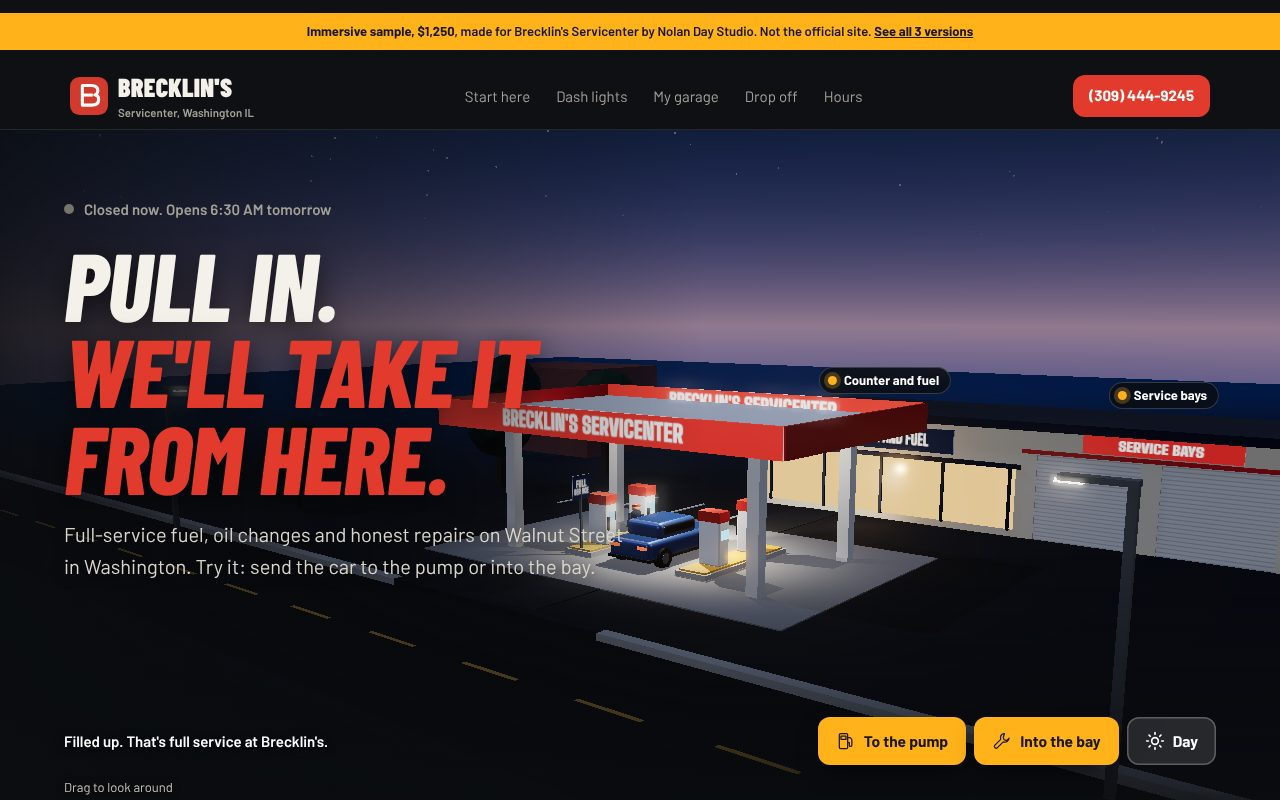
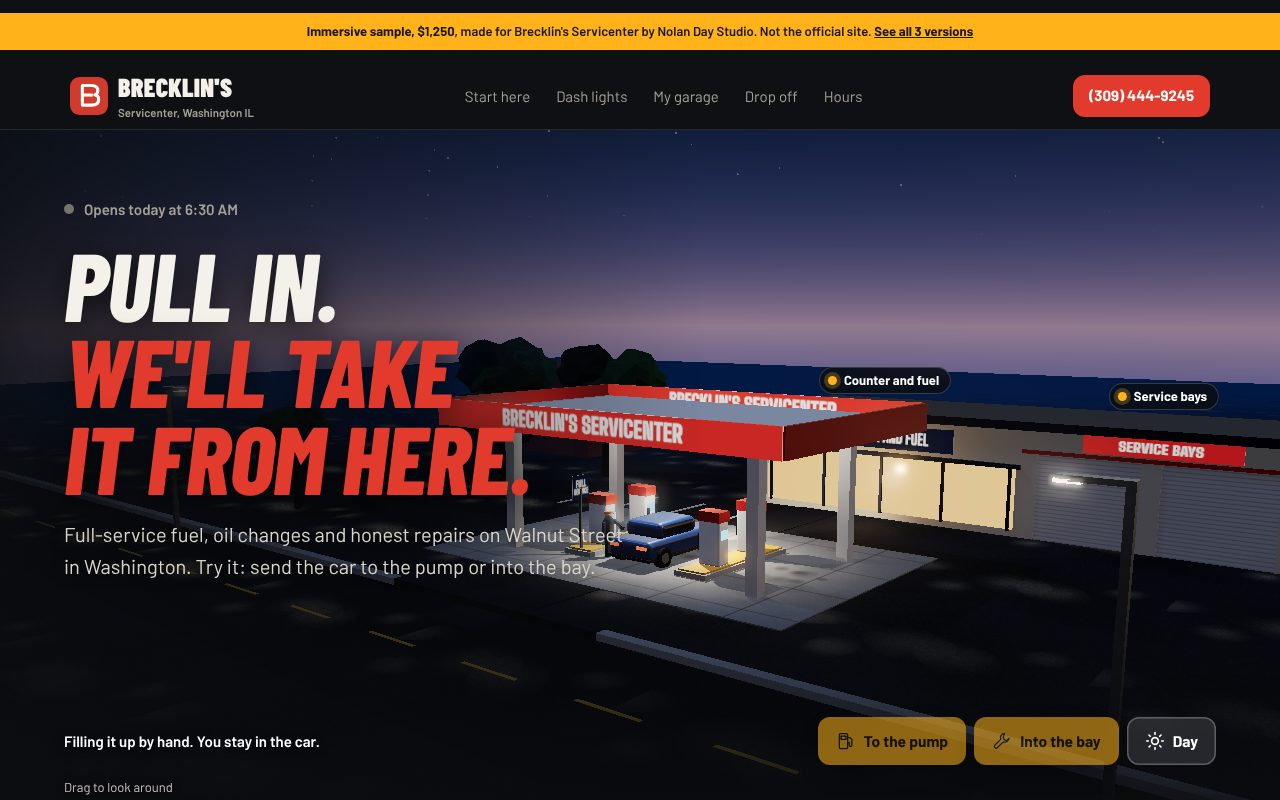
feat: Brecklin's round 4, real-world 3D light, textured lot, repair steps (#34)
* feat: three Brecklin's Servicenter sample sites and per-shop pitch room copy

- /brecklins300/: one page with a live open/closed repair tag from the
  Google hours, a work-order service list, real review quotes and a map
- /brecklins750/: gas-pump counter that rolls to today's hours and the
  4.8 rating, plus a drop-off planner that fills in a live ticket
- /brecklins1250/: real-time 3D station (Three.js) where the car drives
  to the full-service pump or into the bay and up on the lift, day/night
- The Brecklin's preview now is the $300 version, with samples, thumbs,
  why, tour, versions and compare in its nds-shop JSON
- meet: per-shop "versions", "compare" and "tour" overrides with neutral
  fallbacks; Just Dents' exact wording moved into its own JSON

Claude-Session: https://claude.ai/code/session_015BTMUSJY67YYBCQBZL3Y1N

* feat: Brecklin's samples round 2 upgrades

$300: save-to-contacts vCard, plan banner, JSON-LD, phone overflow fix.
$750: dash warning-light helper, photo upload, calendar invite after booking.
$1,250: same plus a 3D attendant who pumps the gas and tappable scene labels.
Pitch room data: per-plan feature lists and 15-row comparison, new thumbnails.

Claude-Session: https://claude.ai/code/session_015BTMUSJY67YYBCQBZL3Y1N

* feat: Brecklin's round 3, clearly different tiers and a cleaner pitch room

$300: drawn station hero whose sky follows the real time, live status and rating chips.
$750: long-exposure headlight streaks behind the hero.
[…]

diff --git a/brecklins300/index.html b/brecklins300/index.html
@@ -6,7 +6,7 @@
 <title>Brecklin's Servicenter · Washington, IL (free preview)</title>
 <meta name="description" content="Auto Repair in Washington, IL. Oil changes, repairs and full-service fuel at 119 Walnut St. Free website preview by Nolan Day Studio.">
 <meta name="theme-color" content="#14213A">
-<script type="application/json" id="nds-shop">{"slug": "brecklin-s-servicenter-washington", "name": "Brecklin's Servicenter", "short": "Brecklin's", "town": "Washington", "state": "IL", "phone": "(309) 444-9245", "trade": "Auto Repair", "address": "119 Walnut St, Washington, IL 61571", "rating": "4.8", "reviews": 21, "services": ["Oil changes", "Repairs and diagnosis", "Full-service fuel"], "samples": {"essential": "/brecklins300/", "signature": "/brecklins750/", "immersive": "/brecklins1250/"}, "why": "Today your Google listing shows a map pin, a phone number and an \"Add website\" button, so people searching on their phone have no page of yours to tap through to.", "thumbs": {"essential": "/p/2e8e4a/brecklin-s-servicenter-washington/shots/v300.jpg", "signature": "/p/2e8e4a/brecklin-s-servicenter-washington/shots/v750.jpg", "immersive": "/p/2e8e4a/brecklin-s-servicenter-washington/shots/v1250.jpg"}, "versions": {"essential": {"blurb": "The clean, fast version: one page that answers every question and gets the call. Or $0 down and $99 a month with hosting and changes included.", "features": ["One fast page, up to 5 sections", "A drawing of your station whose sky turns to night when you close", "Open or closed right now, from your real hours", "Tap-to-call bar on every phone screen", "Your Google reviews, a map to 119 Walnut St and a call-back form", "A button that saves your shop in the customer's contacts", "Set up for Google search, live the same day"]}, "signature": {"blurb": "Art-directed: headlights streak past on Walnut Street, a pump counter rolls to today's hours, and the site books drop-offs for you.", "features": ["Everything in Starter, up to 7 sections", "Custom look and type made for your shop", "Headlight streaks moving behind your headline", "Pump counter that rolls to today's hours and your 4.8 rating", "Dash-light helper: tap a warning light, see if it's safe to drive, book it", "Drop-off planner with photos, a live ticket and a calendar invite", "Two rounds of changes"]}, "immersive": {"blurb": "The showpiece and the one that brings customers back: a 3D model of your station, a guide that sends each visitor to the right next step, and oil-change reminders on their calendar.", "features": ["Everything in Signature, in its own after-dark look", "A real-time 3D model of your station: the attendant pumps the gas and the car rides the lift", "\"What brings you in?\" guide: fill-up, oil change, something's wrong or pick-up", "My Garage: customers save their car and get oil-change reminders on their calendar", "Shows you what a drop-off request looks like on your phone", "Built to be the site people remember and share"]}}, "compare": [["Built for phones first, tap-to-call on every screen", 1, 1, 1], ["Your Google reviews, a map and a call-back form", 1, 1, 1], ["Open-or-closed status from your real hours", 1, 1, 1], ["Save-to-contacts button", 1, 1, 1], ["Business details set up for Google search", 1, 1, 1], ["Live the same day you approve it", 1, 1, 1], ["Custom look and type made for your shop, not a template", 0, 1, 1], ["Motion made for your shop (headlight streaks, rolling pump counter)", 0, 1, 1], ["Dash-light helper that books the drop-off", 0, 1, 1], ["Drop-off planner with photos, a live ticket and a calendar invite", 0, 1, 1], ["A real-time 3D model of your station", 0, 0, 1], ["The attendant pumps the gas and the car rides the lift, in 3D", 0, 0, 1], ["\"What brings you in?\" guide to the right next step", 0, 0, 1], ["My Garage oil-change tracker with calendar reminders", 0, 0, 1], ["Rounds of changes included", "1 (any time on $99/mo)", "2", "2"], ["Sections", "up to 5", "up to 7", "up to 7"]], "tour": [["Tap-to-call on every screen", "Your number, (309) 444-9245, sits at the top and stays on screen as people scroll, so a driver stuck in a parking lot reaches you in one tap."], ["Open or closed, right now", "The drawing of your station reads your real hours: it says whether you're open this minute and when you close, and its sky turns to night after closing, so nobody drives over to a dark lot."], ["Your shop on a map", "It shows 119 Walnut St on a map with a directions button, so first-timers find you without calling to ask."], ["Requests while you work", "People who'd rather not call can leave their name, number and what the car is doing. Those go straight to you."]], "tools": {"essential": "Open-or-closed tag", "signature": "Pump counter that rolls to today's hours", "immersive": "a station you can drive into"}}</script>
+<script type="application/json" id="nds-shop">{"slug": "brecklin-s-servicenter-washington", "name": "Brecklin's Servicenter", "short": "Brecklin's", "town": "Washington", "state": "IL", "phone": "(309) 444-9245", "trade": "Auto Repair", "address": "119 Walnut St, Washington, IL 61571", "rating": "4.8", "reviews": 21, "services": ["Oil changes", "Repairs and diagnosis", "Full-service fuel"], "samples": {"essential": "/brecklins300/", "signature": "/brecklins750/", "immersive": "/brecklins1250/"}, "why": "Today your Google listing shows a map pin, a phone number and an \"Add website\" button, so people searching on their phone have no page of yours to tap through to.", "thumbs": {"essential": "/p/2e8e4a/brecklin-s-servicenter-washington/shots/v300.jpg", "signature": "/p/2e8e4a/brecklin-s-servicenter-washington/shots/v750.jpg", "immersive": "/p/2e8e4a/brecklin-s-servicenter-washington/shots/v1250.jpg"}, "versions": {"essential": {"blurb": "The clean, fast version: one page that answers every question and gets the call. Or $0 down and $99 a month with hosting and changes included.", "features": ["One fast page, up to 5 sections", "A drawing of your station whose sky turns to night when you close", "Open or closed right now, from your real hours", "Tap-to-call bar on every phone screen", "Your Google reviews, a map to 119 Walnut St and a call-back form", "A button that saves your shop in the customer's contacts", "Set up for Google search, live the same day"]}, "signature": {"blurb": "Art-directed: headlights streak past on Walnut Street, a pump counter rolls to today's hours, and the site books drop-offs for you.", "features": ["Everything in Starter, up to 7 sections", "Custom look and type made for your shop", "Headlight streaks moving behind your headline", "Pump counter that rolls to today's hours and your 4.8 rating", "Dash-light helper: tap a warning light, see if it's safe to drive, book it", "\"How a repair goes\" in four steps, with reviews matched to each service", "Drop-off planner with photos, a live ticket and a calendar invite", "Two rounds of changes"]}, "immersive": {"blurb": "The showpiece and the one that brings customers back: a 3D model of your station, a guide that sends each visitor to the right next step, and oil-change reminders on their calendar.", "features": ["Everything in Signature, in its own after-dark look", "A real-time 3D model of your station, lit with real-world light: the attendant pumps the gas and the car rides the lift", "\"What brings you in?\" guide: fill-up, oil change, something's wrong or pick-up", "My Garage: customers save their car and get oil-change reminders on their calendar", "Shows you what a drop-off request looks like on your phone", "Built to be the site people remember and share"]}}, "compare": [["Built for phones first, tap-to-call on every screen", 1, 1, 1], ["Your Google reviews, a map and a call-back form", 1, 1, 1], ["Open-or-closed status from your real hours", 1, 1, 1], ["Save-to-contacts button", 1, 1, 1], ["Business details set up for Google search", 1, 1, 1], ["Live the same day you approve it", 1, 1, 1], ["Custom look and type made for your shop, not a template", 0, 1, 1], ["Motion made for your shop (headlight streaks, rolling pump counter)", 0, 1, 1], ["Dash-light helper that books the drop-off", 0, 1, 1], ["Drop-off planner with photos, a live ticket and a calendar invite", 0, 1, 1], ["\"How a repair goes\" steps and reviews matched to each service", 0, 1, 1], ["A real-time 3D model of your station, lit with real-world light", 0, 0, 1], ["The attendant pumps the gas and the car rides the lift, in 3D", 0, 0, 1], ["\"What brings you in?\" guide to the right next step", 0, 0, 1], ["My Garage oil-change tracker with calendar reminders", 0, 0, 1], ["Rounds of changes included", "1 (any time on $99/mo)", "2", "2"], ["Sections", "up to 5", "up to 7", "up to 7"]], "tour": [["Tap-to-call on every screen", "Your number, (309) 444-9245, sits at the top and stays on screen as people scroll, so a driver stuck in a parking lot reaches you in one tap."], ["Open or closed, right now", "The drawing of your station reads your real hours: it says whether you're open this minute and when you close, and its sky turns to night after closing, so nobody drives over to a dark lot."], ["Your shop on a map", "It shows 119 Walnut St on a map with a directions button, so first-timers find you without calling to ask."], ["Requests while you work", "People who'd rather not call can leave their name, number and what the car is doing. Those go straight to you."]], "tools": {"essential": "Open-or-closed tag", "signature": "Pump counter that rolls to today's hours", "immersive": "a station you can drive into"}}</script>
 <link rel="preconnect" href="https://fonts.googleapis.com"><link rel="preconnect" href="https://fonts.gstatic.com" crossorigin>
 <link rel="stylesheet" href="https://fonts.googleapis.com/css2?family=Archivo:wdth,wght@62..125,500..900&family=Public+Sans:wght@400;500;600;700&display=swap">
 <style>
@@ -159,6 +159,8 @@ footer.foot b{color:var(--navy)}
 @media(prefers-reduced-motion:no-preference){.sc .chipa,.sc .chipb,.sc .chipc{animation:pop .7s cubic-bezier(.2,.9,.3,1.25) both}.sc .chipb{animation-delay:.25s}.sc .chipc{animation-delay:.45s}
 @keyframes pop{from{opacity:0;transform:translateY(12px) scale(.94)}to{opacity:1;transform:none}}
 .sc .car{animation:roll 1.6s cubic-bezier(.2,.8,.2,1) .2s both}@keyframes roll{from{transform:translateX(-200px)}to{transform:none}}}
+/* polish: smoothing, balanced headings, tactile presses */
+html{-webkit-font-smoothing:antialiased;-moz-osx-font-smoothing:grayscale}h1,h2,h3{text-wrap:balance}p,li,blockquote{text-wrap:pretty}.btn:active,.act:active,.chip:active,.tile:active{transform:scale(.97)}
 </style>
 <script type="application/ld+json">{"@context":"https://schema.org","@type":"AutoRepair","name":"Brecklin's Servicenter","description":"Full-service fuel, oil changes and auto repair at 119 Walnut St in Washington, Illinois.","telephone":"+1-309-444-9245","address":{"@type":"PostalAddress","streetAddress":"119 Walnut St","addressLocality":"Washington","addressRegion":"IL","postalCode":"61571","addressCountry":"US"},"geo":{"@type":"GeoCoordinates","latitude":40.70359,"longitude":-89.40545},"openingHoursSpecification":[{"@type":"OpeningHoursSpecification","dayOfWeek":["Monday","Tuesday","Wednesday","Thursday","Friday"],"opens":"06:30","closes":"20:00"},{"@type":"OpeningHoursSpecification","dayOfWeek":"Saturday","opens":"07:00","closes":"20:00"},{"@type":"OpeningHoursSpecification","dayOfWeek":"Sunday","opens":"08:00","closes":"18:00"}],"paymentAccepted":"Cash, Credit Card, Debit Card, NFC mobile payments","makesOffer":[{"@type":"Offer","itemOffered":{"@type":"Service","name":"Oil change"}},{"@type":"Offer","itemOffered":{"@type":"Service","name":"Auto repair and diagnosis"}},{"@type":"Offer","itemOffered":{"@type":"Service","name":"Full-service fuel"}}]}</script>
 </head>

diff --git a/p/2e8e4a/brecklin-s-servicenter-washington/index.html b/p/2e8e4a/brecklin-s-servicenter-washington/index.html
@@ -6,7 +6,7 @@
 <title>Brecklin's Servicenter · Washington, IL (free preview)</title>
 <meta name="description" content="Auto Repair in Washington, IL. Oil changes, repairs and full-service fuel at 119 Walnut St. Free website preview by Nolan Day Studio.">
 <meta name="theme-color" content="#14213A">
-<script type="application/json" id="nds-shop">{"slug": "brecklin-s-servicenter-washington", "name": "Brecklin's Servicenter", "short": "Brecklin's", "town": "Washington", "state": "IL", "phone": "(309) 444-9245", "trade": "Auto Repair", "address": "119 Walnut St, Washington, IL 61571", "rating": "4.8", "reviews": 21, "services": ["Oil changes", "Repairs and diagnosis", "Full-service fuel"], "samples": {"essential": "/brecklins300/", "signature": "/brecklins750/", "immersive": "/brecklins1250/"}, "why": "Today your Google listing shows a map pin, a phone number and an \"Add website\" button, so people searching on their phone have no page of yours to tap through to.", "thumbs": {"essential": "/p/2e8e4a/brecklin-s-servicenter-washington/shots/v300.jpg", "signature": "/p/2e8e4a/brecklin-s-servicenter-washington/shots/v750.jpg", "immersive": "/p/2e8e4a/brecklin-s-servicenter-washington/shots/v1250.jpg"}, "versions": {"essential": {"blurb": "The clean, fast version: one page that answers every question and gets the call. Or $0 down and $99 a month with hosting and changes included.", "features": ["One fast page, up to 5 sections", "A drawing of your station whose sky turns to night when you close", "Open or closed right now, from your real hours", "Tap-to-call bar on every phone screen", "Your Google reviews, a map to 119 Walnut St and a call-back form", "A button that saves your shop in the customer's contacts", "Set up for Google search, live the same day"]}, "signature": {"blurb": "Art-directed: headlights streak past on Walnut Street, a pump counter rolls to today's hours, and the site books drop-offs for you.", "features": ["Everything in Starter, up to 7 sections", "Custom look and type made for your shop", "Headlight streaks moving behind your headline", "Pump counter that rolls to today's hours and your 4.8 rating", "Dash-light helper: tap a warning light, see if it's safe to drive, book it", "Drop-off planner with photos, a live ticket and a calendar invite", "Two rounds of changes"]}, "immersive": {"blurb": "The showpiece and the one that brings customers back: a 3D model of your station, a guide that sends each visitor to the right next step, and oil-change reminders on their calendar.", "features": ["Everything in Signature, in its own after-dark look", "A real-time 3D model of your station: the attendant pumps the gas and the car rides the lift", "\"What brings you in?\" guide: fill-up, oil change, something's wrong or pick-up", "My Garage: customers save their car and get oil-change reminders on their calendar", "Shows you what a drop-off request looks like on your phone", "Built to be the site people remember and share"]}}, "compare": [["Built for phones first, tap-to-call on every screen", 1, 1, 1], ["Your Google reviews, a map and a call-back form", 1, 1, 1], ["Open-or-closed status from your real hours", 1, 1, 1], ["Save-to-contacts button", 1, 1, 1], ["Business details set up for Google search", 1, 1, 1], ["Live the same day you approve it", 1, 1, 1], ["Custom look and type made for your shop, not a template", 0, 1, 1], ["Motion made for your shop (headlight streaks, rolling pump counter)", 0, 1, 1], ["Dash-light helper that books the drop-off", 0, 1, 1], ["Drop-off planner with photos, a live ticket and a calendar invite", 0, 1, 1], ["A real-time 3D model of your station", 0, 0, 1], ["The attendant pumps the gas and the car rides the lift, in 3D", 0, 0, 1], ["\"What brings you in?\" guide to the right next step", 0, 0, 1], ["My Garage oil-change tracker with calendar reminders", 0, 0, 1], ["Rounds of changes included", "1 (any time on $99/mo)", "2", "2"], ["Sections", "up to 5", "up to 7", "up to 7"]], "tour": [["Tap-to-call on every screen", "Your number, (309) 444-9245, sits at the top and stays on screen as people scroll, so a driver stuck in a parking lot reaches you in one tap."], ["Open or closed, right now", "The drawing of your station reads your real hours: it says whether you're open this minute and when you close, and its sky turns to night after closing, so nobody drives over to a dark lot."], ["Your shop on a map", "It shows 119 Walnut St on a map with a directions button, so first-timers find you without calling to ask."], ["Requests while you work", "People who'd rather not call can leave their name, number and what the car is doing. Those go straight to you."]], "tools": {"essential": "Open-or-closed tag", "signature": "Pump counter that rolls to today's hours", "immersive": "a station you can drive into"}}</script>
+<script type="application/json" id="nds-shop">{"slug": "brecklin-s-servicenter-washington", "name": "Brecklin's Servicenter", "short": "Brecklin's", "town": "Washington", "state": "IL", "phone": "(309) 444-9245", "trade": "Auto Repair", "address": "119 Walnut St, Washington, IL 61571", "rating": "4.8", "reviews": 21, "services": ["Oil changes", "Repairs and diagnosis", "Full-service fuel"], "samples": {"essential": "/brecklins300/", "signature": "/brecklins750/", "immersive": "/brecklins1250/"}, "why": "Today your Google listing shows a map pin, a phone number and an \"Add website\" button, so people searching on their phone have no page of yours to tap through to.", "thumbs": {"essential": "/p/2e8e4a/brecklin-s-servicenter-washington/shots/v300.jpg", "signature": "/p/2e8e4a/brecklin-s-servicenter-washington/shots/v750.jpg", "immersive": "/p/2e8e4a/brecklin-s-servicenter-washington/shots/v1250.jpg"}, "versions": {"essential": {"blurb": "The clean, fast version: one page that answers every question and gets the call. Or $0 down and $99 a month with hosting and changes included.", "features": ["One fast page, up to 5 sections", "A drawing of your station whose sky turns to night when you close", "Open or closed right now, from your real hours", "Tap-to-call bar on every phone screen", "Your Google reviews, a map to 119 Walnut St and a call-back form", "A button that saves your shop in the customer's contacts", "Set up for Google search, live the same day"]}, "signature": {"blurb": "Art-directed: headlights streak past on Walnut Street, a pump counter rolls to today's hours, and the site books drop-offs for you.", "features": ["Everything in Starter, up to 7 sections", "Custom look and type made for your shop", "Headlight streaks moving behind your headline", "Pump counter that rolls to today's hours and your 4.8 rating", "Dash-light helper: tap a warning light, see if it's safe to drive, book it", "\"How a repair goes\" in four steps, with reviews matched to each service", "Drop-off planner with photos, a live ticket and a calendar invite", "Two rounds of changes"]}, "immersive": {"blurb": "The showpiece and the one that brings customers back: a 3D model of your station, a guide that sends each visitor to the right next step, and oil-change reminders on their calendar.", "features": ["Everything in Signature, in its own after-dark look", "A real-time 3D model of your station, lit with real-world light: the attendant pumps the gas and the car rides the lift", "\"What brings you in?\" guide: fill-up, oil change, something's wrong or pick-up", "My Garage: customers save their car and get oil-change reminders on their calendar", "Shows you what a drop-off request looks like on your phone", "Built to be the site people remember and share"]}}, "compare": [["Built for phones first, tap-to-call on every screen", 1, 1, 1], ["Your Google reviews, a map and a call-back form", 1, 1, 1], ["Open-or-closed status from your real hours", 1, 1, 1], ["Save-to-contacts button", 1, 1, 1], ["Business details set up for Google search", 1, 1, 1], ["Live the same day you approve it", 1, 1, 1], ["Custom look and type made for your shop, not a template", 0, 1, 1], ["Motion made for your shop (headlight streaks, rolling pump counter)", 0, 1, 1], ["Dash-light helper that books the drop-off", 0, 1, 1], ["Drop-off planner with photos, a live ticket and a calendar invite", 0, 1, 1], ["\"How a repair goes\" steps and reviews matched to each service", 0, 1, 1], ["A real-time 3D model of your station, lit with real-world light", 0, 0, 1], ["The attendant pumps the gas and the car rides the lift, in 3D", 0, 0, 1], ["\"What brings you in?\" guide to the right next step", 0, 0, 1], ["My Garage oil-change tracker with calendar reminders", 0, 0, 1], ["Rounds of changes included", "1 (any time on $99/mo)", "2", "2"], ["Sections", "up to 5", "up to 7", "up to 7"]], "tour": [["Tap-to-call on every screen", "Your number, (309) 444-9245, sits at the top and stays on screen as people scroll, so a driver stuck in a parking lot reaches you in one tap."], ["Open or closed, right now", "The drawing of your station reads your real hours: it says whether you're open this minute and when you close, and its sky turns to night after closing, so nobody drives over to a dark lot."], ["Your shop on a map", "It shows 119 Walnut St on a map with a directions button, so first-timers find you without calling to ask."], ["Requests while you work", "People who'd rather not call can leave their name, number and what the car is doing. Those go straight to you."]], "tools": {"essential": "Open-or-closed tag", "signature": "Pump counter that rolls to today's hours", "immersive": "a station you can drive into"}}</script>
 <link rel="preconnect" href="https://fonts.googleapis.com"><link rel="preconnect" href="https://fonts.gstatic.com" crossorigin>
 <link rel="stylesheet" href="https://fonts.googleapis.com/css2?family=Archivo:wdth,wght@62..125,500..900&family=Public+Sans:wght@400;500;600;700&display=swap">
 <style>
@@ -159,6 +159,8 @@ footer.foot b{color:var(--navy)}
 @media(prefers-reduced-motion:no-preference){.sc .chipa,.sc .chipb,.sc .chipc{animation:pop .7s cubic-bezier(.2,.9,.3,1.25) both}.sc .chipb{animation-delay:.25s}.sc .chipc{animation-delay:.45s}
 @keyframes pop{from{opacity:0;transform:translateY(12px) scale(.94)}to{opacity:1;transform:none}}
 .sc .car{animation:roll 1.6s cubic-bezier(.2,.8,.2,1) .2s both}@keyframes roll{from{transform:translateX(-200px)}to{transform:none}}}
+/* polish: smoothing, balanced headings, tactile presses */
+html{-webkit-font-smoothing:antialiased;-moz-osx-font-smoothing:grayscale}h1,h2,h3{text-wrap:balance}p,li,blockquote{text-wrap:pretty}.btn:active,.act:active,.chip:active,.tile:active{transform:scale(.97)}
 </style>
 <script type="application/ld+json">{"@context":"https://schema.org","@type":"AutoRepair","name":"Brecklin's Servicenter","description":"Full-service fuel, oil changes and auto repair at 119 Walnut St in Washington, Illinois.","telephone":"+1-309-444-9245","address":{"@type":"PostalAddress","streetAddress":"119 Walnut St","addressLocality":"Washington","addressRegion":"IL","postalCode":"61571","addressCountry":"US"},"geo":{"@type":"GeoCoordinates","latitude":40.70359,"longitude":-89.40545},"openingHoursSpecification":[{"@type":"OpeningHoursSpecification","dayOfWeek":["Monday","Tuesday","Wednesday","Thursday","Friday"],"opens":"06:30","closes":"20:00"},{"@type":"OpeningHoursSpecification","dayOfWeek":"Saturday","opens":"07:00","closes":"20:00"},{"@type":"OpeningHoursSpecification","dayOfWeek":"Sunday","opens":"08:00","closes":"18:00"}],"paymentAccepted":"Cash, Credit Card, Debit Card, NFC mobile payments","makesOffer":[{"@type":"Offer","itemOffered":{"@type":"Service","name":"Oil change"}},{"@type":"Offer","itemOffered":{"@type":"Service","name":"Auto repair and diagnosis"}},{"@type":"Offer","itemOffered":{"@type":"Service","name":"Full-service fuel"}}]}</script>
 </head>

diff --git a/brecklins1250/scene.js b/brecklins1250/scene.js
@@ -8,6 +8,7 @@ import {EffectComposer} from "three/addons/postprocessing/EffectComposer.js";
 import {RenderPass} from "three/addons/postprocessing/RenderPass.js";
 import {UnrealBloomPass} from "three/addons/postprocessing/UnrealBloomPass.js";
 import {OutputPass} from "three/addons/postprocessing/OutputPass.js";
+import {EXRLoader} from "three/addons/loaders/EXRLoader.js";
 
 const host = document.querySelector(".scene");
 const canvas = document.getElementById("c");
@@ -77,6 +78,53 @@ const mat = {
   tail: new THREE.MeshStandardMaterial({color: 0x400000, emissive: 0xff2a1a, emissiveIntensity: 2.2})
 };
 
+/* ---------- surface textures, painted in code: aggregate, slab joints, oil, damp patches ---------- */
+function rng(seed) { seed = seed % 2147483647 || 1; return () => (seed = seed * 16807 % 2147483647, (seed - 1) / 2147483646); }
+function canvasTex(w, h, draw, {rep = [1, 1], srgb = true} = {}) {
+  const c = document.createElement("canvas"); c.width = w; c.height = h; draw(c.getContext("2d"), w, h);
+  const t = new THREE.CanvasTexture(c); t.wrapS = t.wrapT = THREE.RepeatWrapping; t.repeat.set(rep[0], rep[1]);
+  if (srgb) t.colorSpace = THREE.SRGBColorSpace; t.anisotropy = Math.min(8, R.capabilities.getMaxAnisotropy()); return t;
+}
+function grain(x, w, h, r, n, cols, size) { for (let i = 0; i < n; i++) { x.fillStyle = cols[(r() * cols.length) | 0]; const q = size * (0.4 + r()); x.fillRect(r() * w, r() * h, q, q); } }
+function blot(x, r, w, h, n, col, min, max, at) {
+  for (let i = 0; i < n; i++) {
+    const cx = at ? at[0] + (r() - 0.5) * at[2] : r() * w, cy = at ? at[1] + (r() - 0.5) * at[2] : r() * h, rad = min + r() * (max - min);
+    const g = x.createRadialGradient(cx, cy, 0, cx, cy, rad); g.addColorStop(0, col); g.addColorStop(1, "rgba(0,0,0,0)");
+    x.fillStyle = g; x.beginPath(); x.ellipse(cx, cy, rad, rad * (0.55 + r() * 0.45), r() * 3, 0, 7); x.fill();
+  }
+}
+const asR = rng(7), asR2 = rng(11);
+const asphaltMap = canvasTex(512, 512, (x, w, h) => {
+  x.fillStyle = "#2b2f36"; x.fillRect(0, 0, w, h);
+  blot(x, asR, w, h, 10, "rgba(8,10,14,.16)", 70, 220);
+  grain(x, w, h, asR, small ? 14000 : 26000, ["#3b4048", "#1b1e23", "#474c55", "#24272d"], 1.6);
+}, {rep: [30, 30]});
+const asphaltRough = canvasTex(512, 512, (x, w, h) => {
+  x.fillStyle = "#e8e8e8"; x.fillRect(0, 0, w, h);
+  blot(x, asR2, w, h, 5, "rgba(60,60,60,.7)", 50, 160);
+  grain(x, w, h, asR2, 8000, ["#ffffff", "#bcbcbc"], 1.5);
+}, {rep: [30, 30], srgb: false});
+Object.assign(mat.asphalt, {map: asphaltMap, roughnessMap: asphaltRough, roughness: 1}); mat.asphalt.color.set(0xffffff);
+const streetMap = asphaltMap.clone(); streetMap.repeat.set(30, 0.9); streetMap.needsUpdate = true;
+const streetRough = asphaltRough.clone(); streetRough.repeat.set(30, 0.9); streetRough.needsUpdate = true;
+const streetMat = new THREE.MeshStandardMaterial({color: 0xa9adb5, map: streetMap, roughnessMap: streetRough, roughness: 1});
+const apR = rng(3), apR2 = rng(5);
+const PX = 64; // 64 px per metre on the 16 x 11 m apron
+function apronDraw(rough) {
+  return (x, w, h) => {
+    x.fillStyle = rough ? "#e2e2e2" : "#9b9da1"; x.fillRect(0, 0, w, h);
+    const r = rough ? apR2 : apR;
+    if (!rough) { blot(x, r, w, h, 40, "rgba(255,255,255,.07)", 30, 130); blot(x, r, w, h, 30, "rgba(40,40,46,.10)", 20, 90); grain(x, w, h, r, small ? 16000 : 30000, ["#aaacb0", "#8b8d91", "#b6b8bb"], 1.4); }
+    // where cars stop beside each island: oil drips and a damp patch that catches the canopy light
+    [[w / 2, h / 2 - 0.6 * PX], [w / 2 - 5.2 * PX, h / 2], [w / 2 + 5.2 * PX, h / 2]].forEach(([cx, cy]) =>
+      blot(x, r, w, h, 7, rough ? "rgba(70,70,70,.85)" : "rgba(28,26,24,.3)", 10, 40, [cx, cy, 2.2 * PX]));
+    x.strokeStyle = rough ? "rgba(255,255,255,1)" : "rgba(58,58,62,.6)"; x.lineWidth = 3;
+    for (let m = -6; m <= 6; m += 3) { x.beginPath(); x.moveTo(w / 2 + m * PX, 0); x.lineTo(w / 2 + m * PX, h); x.stroke(); }
+    for (let m = -4.5; m <= 4.5; m += 3) { x.beginPath(); x.moveTo(0, h / 2 + m * PX); x.lineTo(w, h / 2 + m * PX); x.stroke(); }
+  };
+}
+const apronMat = new THREE.MeshStandardMaterial({map: canvasTex(16 * PX, 11 * PX, apronDraw(false)), roughnessMap: canvasTex(16 * PX, 11 * PX, apronDraw(true), {srgb: false}), roughness: 0.95});
+
 function box(w, h, d, m, x = 0, y = 0, z = 0, parent = scene, cast = true) {
   const g = new THREE.Mesh(new THREE.BoxGeometry(w, h, d), m);
   g.position.set(x, y, z); g.castShadow = cast; g.receiveShadow = true; parent.add(g); return g;
@@ -104,6 +152,13 @@ function slatTex() {
   const t = new THREE.CanvasTexture(c); t.wrapS = t.wrapT = THREE.RepeatWrapping; t.repeat.set(1, 1.4); t.colorSpace = THREE.SRGBColorSpace; return t;
 }
 
+/* ---------- image-based light: Poly Haven HDRIs via @pmndrs/assets, RoomEnvironment until they load ---------- */
+const envs = {};
+let hdri = false;
+Promise.all([["night", "night"], ["day", "park"]].map(async ([k, n]) => {
+  try { const m = await import(`@pmndrs/assets/hdri/${n}.exr.js`); const t = await new EXRLoader().loadAsync(m.default); t.mapping = THREE.EquirectangularReflectionMapping; envs[k] = pmrem.fromEquirectangular(t).texture; t.dispose(); } catch (e) {}
+})).then(() => { hdri = !!(envs.night && envs.day); if (hdri) applyLook(1); });
+
 /* ---------- sky ---------- */
 const skyU = {top: {value: new THREE.Color(0x061026)}, bot: {value: new THREE.Color(0x29467a)}, st: {value: 1}};
 const sky = new THREE.Mesh(new THREE.SphereGeometry(200, 32, 16), new THREE.ShaderMaterial({
@@ -117,8 +172,8 @@ scene.fog = new THREE.Fog(0x162a4f, 45, 120);
 /* ---------- ground ---------- */
 const ground = new THREE.Mesh(new THREE.PlaneGeometry(240, 240), mat.asphalt);
 ground.rotation.x = -Math.PI / 2; ground.receiveShadow = true; scene.add(ground);
-box(16, 0.04, 11, mat.concrete, 0, 0.02, 0, scene, false); // apron under the canopy
-box(240, 0.03, 7, M(0x1b1e23, {roughness: 0.95}), 0, 0.015, 13, scene, false); // Walnut Street
+box(16, 0.04, 11, apronMat, 0, 0.02, 0, scene, false); // apron under the canopy
+box(240, 0.03, 7, streetMat, 0, 0.015, 13, scene, false); // Walnut Street
 for (let x = -60; x < 60; x += 4) box(2, 0.035, 0.14, mat.yellow, x, 0.02, 13, scene, false);
 box(240, 0.25, 0.4, mat.curb, 0, 0.12, 9.3, scene, false);
 // the curb opens where cars pull in
@@ -229,11 +284,24 @@ const door1 = door(3.5), door2 = door(8);
 box(3.6, 1.6, 0.06, mat.store, 8, 2.4, BZ - 0.04, bld, false).visible = false; // reserved for a window if the shop wants one
 
 /* ---------- trees and a neighbour ---------- */
+const leafMats = [0x1f3b2c, 0x27482f, 0x2f5636, 0x1a3125].map(c => M(c, {roughness: 0.9, flatShading: true}));
+const barkMat = M(0x3b2a1e, {roughness: 0.95});
+function lump(rad, seed) {
+  const g = new THREE.IcosahedronGeometry(rad, 2), p = g.attributes.position;
+  for (let k = 0; k < p.count; k++) {
+    const X = p.getX(k), Y = p.getY(k), Z = p.getZ(k), n = Math.sin(X * 12.99 + Y * 78.23 + Z * 37.72 + seed) * 43758.55, f = 0.82 + 0.32 * (n - Math.floor(n));
+    p.setXYZ(k, X * f, Y * f * 0.86, Z * f);
+  }
+  g.computeVertexNormals(); return g;
+}
 function tree(x, z, s = 1) {
   const g = new THREE.Group(); g.position.set(x, 0, z); g.scale.setScalar(s); scene.add(g);
-  box(0.3, 2, 0.3, M(0x3b2a1e), 0, 1, 0, g);
-  const c = new THREE.Mesh(new THREE.IcosahedronGeometry(1.6, 1), M(0x1f3b2c, {roughness: 0.9, flatShading: true}));
-  c.position.y = 3; c.castShadow = true; g.add(c);
+  const r = rng(Math.abs(Math.round(x * 31 + z * 17)) + 3);
+  const trunk = new THREE.Mesh(new THREE.CylinderGeometry(0.13, 0.22, 2.8, 7), barkMat); trunk.position.y = 1.4; trunk.castShadow = true; g.add(trunk);
+  for (let i = 0; i < 6; i++) {
+    const m = new THREE.Mesh(lump(0.85 + r() * 0.75, i * 9.1 + x), leafMats[i % 4]);
+    m.position.set((r() - 0.5) * 1.9, 2.9 + r() * 1.7, (r() - 0.5) * 1.9); m.rotation.y = r() * 6; m.castShadow = true; g.add(m);
+  }
 }
 tree(-16, -6, 1.1); tree(-14, -12, 1.3); tree(-19, 4, 0.9); tree(29, 2, 1); tree(-24, -14, 1.4); tree(25, -9, 1.2);
 box(9, 5.5, 7, M(0x7d4b3c, {roughness: 0.95}), -24, 2.75, -20); box(10, 4, 7, M(0x8a8f96, {roughness: 0.95}), 31, 2, -21);
@@ -309,7 +377,8 @@ function applyLook(t) {
   fasciaMat.emissiveIntensity = 0.15 + 0.5 * g;
   mat.head.emissiveIntensity = 0.6 + 2.4 * g;
   beam.intensity = (carMoving || carState === "road") ? 40 * g : 10 * g;
-  envMats.forEach(m => { m.envMapIntensity = k.env; });
+  if (hdri) scene.environment = envs[mode];
+  envMats.forEach(m => { m.envMapIntensity = hdri ? (mode === "night" ? 1.4 : 1.25) * (k.env > 0.4 ? 1 : 0.8) : k.env; });
   if (bloom) bloom.strength = 0.15 + 0.3 * g;
 }
 moon.position.set(-20, 30, 10);

diff --git a/brecklins1250/index.html b/brecklins1250/index.html
@@ -289,6 +289,16 @@ footer{padding:36px 0 44px;font-size:14px;color:var(--mute);text-align:center;li
 @keyframes drop{from{transform:translateY(-24px) scale(.96);opacity:0}to{transform:none;opacity:1}}
 @media(prefers-reduced-motion:reduce){.req.new{animation:none}[data-garc]{transition:none}}
 @media(prefers-reduced-motion:reduce){html{scroll-behavior:auto}.wheel .strip{transition:none}}
+.steps{list-style:none;margin:0;padding:0;display:grid;gap:12px;counter-reset:s}
+@media(min-width:820px){.steps{grid-template-columns:repeat(4,minmax(0,1fr))}}
+.steps li{background:var(--navy2);border-radius:20px;padding:22px 20px 24px;box-shadow:inset 0 0 0 1px #ffffff12;position:relative}
+.steps li b{display:block;font:800 30px/1 "Barlow Condensed",sans-serif;color:var(--amber);margin-bottom:14px}
+.steps h3{font:800 italic 24px/1.05 "Barlow Condensed",sans-serif;text-transform:uppercase;margin:0 0 8px;text-wrap:balance}
+.steps p{margin:0;color:#C6C2B9;font-size:15.5px;text-wrap:pretty}
+@media(min-width:820px){.steps li:not(:last-child)::after{content:"";position:absolute;right:-12px;top:36px;width:12px;height:2px;background:var(--amber);opacity:.6}}
+.rt{margin:0 0 -4px;font:700 12px/1 "Barlow",sans-serif;letter-spacing:.12em;text-transform:uppercase;color:var(--amber)}
+/* polish: smoothing, balanced headings, tactile presses */
+html{-webkit-font-smoothing:antialiased;-moz-osx-font-smoothing:grayscale}h1,h2,h3{text-wrap:balance}p,li,blockquote{text-wrap:pretty}.btn:active,.act:active,.chip:active,.tile:active{transform:scale(.97)}
 </style>
 <script type="application/ld+json">{"@context":"https://schema.org","@type":"AutoRepair","name":"Brecklin's Servicenter","description":"Full-service fuel, oil changes and auto repair at 119 Walnut St in Washington, Illinois.","telephone":"+1-309-444-9245","address":{"@type":"PostalAddress","streetAddress":"119 Walnut St","addressLocality":"Washington","addressRegion":"IL","postalCode":"61571","addressCountry":"US"},"geo":{"@type":"GeoCoordinates","latitude":40.70359,"longitude":-89.40545},"openingHoursSpecification":[{"@type":"OpeningHoursSpecification","dayOfWeek":["Monday","Tuesday","Wednesday","Thursday","Friday"],"opens":"06:30","closes":"20:00"},{"@type":"OpeningHoursSpecification","dayOfWeek":"Saturday","opens":"07:00","closes":"20:00"},{"@type":"OpeningHoursSpecification","dayOfWeek":"Sunday","opens":"08:00","closes":"18:00"}],"paymentAccepted":"Cash, Credit Card, Debit Card, NFC mobile payments","makesOffer":[{"@type":"Offer","itemOffered":{"@type":"Service","name":"Oil change"}},{"@type":"Offer","itemOffered":{"@type":"Service","name":"Auto repair and diagnosis"}},{"@type":"Offer","itemOffered":{"@type":"Service","name":"Full-service fuel"}}]}</script>
 </head>
@@ -429,6 +439,16 @@ footer{padding:36px 0 44px;font-size:14px;color:var(--mute);text-align:center;li
   </div>
 </div></section>
 
+<section class="s" id="how"><div class="wrap">
+  <h2 class="d h2">How a repair goes</h2>
+  <ol class="steps">
+    <li><b>01</b><h3>Tell us what it's doing</h3><p>Call (309) 444-9245 or send a drop-off ticket with a photo of the dash.</p></li>
+    <li><b>02</b><h3>Bring it up to Walnut St</h3><p>Drop it off at the time you picked. Fill the tank at the full-service pump while you're there.</p></li>
+    <li><b>03</b><h3>Get a straight answer</h3><p>The shop looks at it and tells you what it needs. Customers on Google call it a "good honest estimate."</p></li>
+    <li><b>04</b><h3>Back on the road</h3><p>One customer on Google had theirs fixed within 40 minutes. Another got same-day service.</p></li>
+  </ol>
+</div></section>
+
 <section class="s" id="book"><div class="wrap">
   <h2 class="d h2">Plan a drop-off</h2>
   <p class="intro">Pick a day and about when you'll bring the car up, and tell us what it's doing. The shop calls you back to confirm.</p>
@@ -486,10 +506,10 @@ footer{padding:36px 0 44px;font-size:14px;color:var(--mute);text-align:center;li
   <h2 class="d h2">Word around town</h2>
   <div class="rate"><b>4.8</b><span>average on Google<br>from 21 reviews</span></div>
   <div class="revs">
-    <figure class="rev"><blockquote>"They treat us like we are their only customer. The young people working the register are ALWAYS very nice and eager to help."</blockquote><figcaption><span><b>Keegan F.</b>, Google review</span><span class="st" aria-label="5 stars">★★★★★</span></figcaption></figure>
-    <figure class="rev"><blockquote>"Went to this business for the 1st time and was not disappointed! Good honest estimate, with a good same day service turn out so I wouldn't hesitate to bring my vehicle back!!"</blockquote><figcaption><span><b>Pete</b>, Google review</span><span class="st" aria-label="5 stars">★★★★★</span></figcaption></figure>
-    <figure class="rev"><blockquote>"Was having awful issues with my car. Tom said bring it up. Let me see what's going on within 40 minutes fixed the problem so very thankful. Excellent place to take your car.!!"</blockquote><figcaption><span><b>Cathy G.</b>, Google review</span><span class="st" aria-label="5 stars">★★★★★</span></figcaption></figure>
-    <figure class="rev"><blockquote>"Not many full service gas stations left. It was refreshing to meet some down to earth good people here."</blockquote><figcaption><span><b>John S.</b>, Google review</span><span class="st" aria-label="4 stars">★★★★</span></figcaption></figure>
+    <figure class="rev"><p class="rt">At the counter</p><blockquote>"They treat us like we are their only customer. The young people working the register are ALWAYS very nice and eager to help."</blockquote><figcaption><span><b>Keegan F.</b>, Google review</span><span class="st" aria-label="5 stars">★★★★★</span></figcaption></figure>
+    <figure class="rev"><p class="rt">Estimate and same-day repair</p><blockquote>"Went to this business for the 1st time and was not disappointed! Good honest estimate, with a good same day service turn out so I wouldn't hesitate to bring my vehicle back!!"</blockquote><figcaption><span><b>Pete</b>, Google review</span><span class="st" aria-label="5 stars">★★★★★</span></figcaption></figure>
+    <figure class="rev"><p class="rt">Repair</p><blockquote>"Was having awful issues with my car. Tom said bring it up. Let me see what's going on within 40 minutes fixed the problem so very thankful. Excellent place to take your car.!!"</blockquote><figcaption><span><b>Cathy G.</b>, Google review</span><span class="st" aria-label="5 stars">★★★★★</span></figcaption></figure>
+    <figure class="rev"><p class="rt">Full-service fuel</p><blockquote>"Not many full service gas stations left. It was refreshing to meet some down to earth good people here."</blockquote><figcaption><span><b>John S.</b>, Google review</span><span class="st" aria-label="4 stars">★★★★</span></figcaption></figure>
   </div>
   <p class="small">Quotes are copied word for word from public reviews on Brecklin's Google listing.</p>
 </div></section>
@@ -711,7 +731,7 @@ footer{padding:36px 0 44px;font-size:14px;color:var(--mute);text-align:center;li
     var pe=document.querySelector("[data-pempty]");if(pe)pe.hidden=true;inbox.insertBefore(li,inbox.firstChild);while(inbox.children.length>3)inbox.removeChild(inbox.lastChild)}
 })();
 </script>
-<script type="importmap">{"imports":{"three":"https://cdn.jsdelivr.net/npm/three@0.160.0/build/three.module.js","three/addons/":"https://cdn.jsdelivr.net/npm/three@0.160.0/examples/jsm/"}}</script>
+<script type="importmap">{"imports":{"three":"https://cdn.jsdelivr.net/npm/three@0.160.0/build/three.module.js","three/addons/":"https://cdn.jsdelivr.net/npm/three@0.160.0/examples/jsm/","@pmndrs/assets/":"https://cdn.jsdelivr.net/npm/@pmndrs/assets@1.7.0/"}}</script>
 <script type="module">
 import("./scene.js").catch(function(){document.querySelector(".scene").classList.add("noGL")});
 </script>

diff --git a/brecklins750/index.html b/brecklins750/index.html
@@ -192,6 +192,16 @@ footer{padding:36px 0 44px;font-size:14px;color:var(--mute);text-align:center;li
 .dock .btn{min-width:0;padding:0 10px}
 @media(min-width:820px){.dock{display:none}}
 @media(prefers-reduced-motion:reduce){html{scroll-behavior:auto}.wheel .strip{transition:none}}
+.steps{list-style:none;margin:0;padding:0;display:grid;gap:12px;counter-reset:s}
+@media(min-width:820px){.steps{grid-template-columns:repeat(4,minmax(0,1fr))}}
+.steps li{background:var(--navy2);border-radius:20px;padding:22px 20px 24px;box-shadow:inset 0 0 0 1px #ffffff12;position:relative}
+.steps li b{display:block;font:800 30px/1 "Big Shoulders Display",sans-serif;color:var(--amber);margin-bottom:14px}
+.steps h3{font:800 24px/1.05 "Big Shoulders Display",sans-serif;text-transform:uppercase;margin:0 0 8px;text-wrap:balance}
+.steps p{margin:0;color:#C3CDDD;font-size:15.5px;text-wrap:pretty}
+@media(min-width:820px){.steps li:not(:last-child)::after{content:"";position:absolute;right:-12px;top:36px;width:12px;height:2px;background:var(--amber);opacity:.6}}
+.rt{margin:0 0 -4px;font:700 12px/1 "Instrument Sans",sans-serif;letter-spacing:.12em;text-transform:uppercase;color:var(--amber)}
+/* polish: smoothing, balanced headings, tactile presses */
+html{-webkit-font-smoothing:antialiased;-moz-osx-font-smoothing:grayscale}h1,h2,h3{text-wrap:balance}p,li,blockquote{text-wrap:pretty}.btn:active,.act:active,.chip:active,.tile:active{transform:scale(.97)}
 </style>
 <script type="application/ld+json">{"@context":"https://schema.org","@type":"AutoRepair","name":"Brecklin's Servicenter","description":"Full-service fuel, oil changes and auto repair at 119 Walnut St in Washington, Illinois.","telephone":"+1-309-444-9245","address":{"@type":"PostalAddress","streetAddress":"119 Walnut St","addressLocality":"Washington","addressRegion":"IL","postalCode":"61571","addressCountry":"US"},"geo":{"@type":"GeoCoordinates","latitude":40.70359,"longitude":-89.40545},"openingHoursSpecification":[{"@type":"OpeningHoursSpecification","dayOfWeek":["Monday","Tuesday","Wednesday","Thursday","Friday"],"opens":"06:30","closes":"20:00"},{"@type":"OpeningHoursSpecification","dayOfWeek":"Saturday","opens":"07:00","closes":"20:00"},{"@type":"OpeningHoursSpecification","dayOfWeek":"Sunday","opens":"08:00","closes":"18:00"}],"paymentAccepted":"Cash, Credit Card, Debit Card, NFC mobile payments","makesOffer":[{"@type":"Offer","itemOffered":{"@type":"Service","name":"Oil change"}},{"@type":"Offer","itemOffered":{"@type":"Service","name":"Auto repair and diagnosis"}},{"@type":"Offer","itemOffered":{"@type":"Service","name":"Full-service fuel"}}]}</script>
 </head>
@@ -265,6 +275,16 @@ footer{padding:36px 0 44px;font-size:14px;color:var(--mute);text-align:center;li
   </div>
 </div></section>
 
+<section class="s" id="how"><div class="wrap">
+  <h2 class="d h2">How a repair goes</h2>
+  <ol class="steps">
+    <li><b>01</b><h3>Tell us what it's doing</h3><p>Call (309) 444-9245 or send a drop-off ticket with a photo of the dash.</p></li>
+    <li><b>02</b><h3>Bring it up to Walnut St</h3><p>Drop it off at the time you picked. Fill the tank at the full-service pump while you're there.</p></li>
+    <li><b>03</b><h3>Get a straight answer</h3><p>The shop looks at it and tells you what it needs. Customers on Google call it a "good honest estimate."</p></li>
+    <li><b>04</b><h3>Back on the road</h3><p>One customer on Google had theirs fixed within 40 minutes. Another got same-day service.</p></li>
+  </ol>
+</div></section>
+
 <section class="s" id="book"><div class="wrap">
   <h2 class="d h2">Plan a drop-off</h2>
   <p class="intro">Pick a day and about when you'll bring the car up, and tell us what it's doing. The shop calls you back to confirm.</p>
@@ -306,10 +326,10 @@ footer{padding:36px 0 44px;font-size:14px;color:var(--mute);text-align:center;li
   <h2 class="d h2">Word around town</h2>
   <div class="rate"><b>4.8</b><span>average on Google<br>from 21 reviews</span></div>
   <div class="revs">
-    <figure class="rev"><blockquote>"They treat us like we are their only customer. The young people working the register are ALWAYS very nice and eager to help."</blockquote><figcaption><span><b>Keegan F.</b>, Google review</span><span class="st" aria-label="5 stars">★★★★★</span></figcaption></figure>
-    <figure class="rev"><blockquote>"Went to this business for the 1st time and was not disappointed! Good honest estimate, with a good same day service turn out so I wouldn't hesitate to bring my vehicle back!!"</blockquote><figcaption><span><b>Pete</b>, Google review</span><span class="st" aria-label="5 stars">★★★★★</span></figcaption></figure>
-    <figure class="rev"><blockquote>"Was having awful issues with my car. Tom said bring it up. Let me see what's going on within 40 minutes fixed the problem so very thankful. Excellent place to take your car.!!"</blockquote><figcaption><span><b>Cathy G.</b>, Google review</span><span class="st" aria-label="5 stars">★★★★★</span></figcaption></figure>
-    <figure class="rev"><blockquote>"Not many full service gas stations left. It was refreshing to meet some down to earth good people here."</blockquote><figcaption><span><b>John S.</b>, Google review</span><span class="st" aria-label="4 stars">★★★★</span></figcaption></figure>
+    <figure class="rev"><p class="rt">At the counter</p><blockquote>"They treat us like we are their only customer. The young people working the register are ALWAYS very nice and eager to help."</blockquote><figcaption><span><b>Keegan F.</b>, Google review</span><span class="st" aria-label="5 stars">★★★★★</span></figcaption></figure>
+    <figure class="rev"><p class="rt">Estimate and same-day repair</p><blockquote>"Went to this business for the 1st time and was not disappointed! Good honest estimate, with a good same day service turn out so I wouldn't hesitate to bring my vehicle back!!"</blockquote><figcaption><span><b>Pete</b>, Google review</span><span class="st" aria-label="5 stars">★★★★★</span></figcaption></figure>
+    <figure class="rev"><p class="rt">Repair</p><blockquote>"Was having awful issues with my car. Tom said bring it up. Let me see what's going on within 40 minutes fixed the problem so very thankful. Excellent place to take your car.!!"</blockquote><figcaption><span><b>Cathy G.</b>, Google review</span><span class="st" aria-label="5 stars">★★★★★</span></figcaption></figure>
+    <figure class="rev"><p class="rt">Full-service fuel</p><blockquote>"Not many full service gas stations left. It was refreshing to meet some down to earth good people here."</blockquote><figcaption><span><b>John S.</b>, Google review</span><span class="st" aria-label="4 stars">★★★★</span></figcaption></figure>
   </div>
   <p class="small">Quotes are copied word for word from public reviews on Brecklin's Google listing.</p>
 </div></section>
